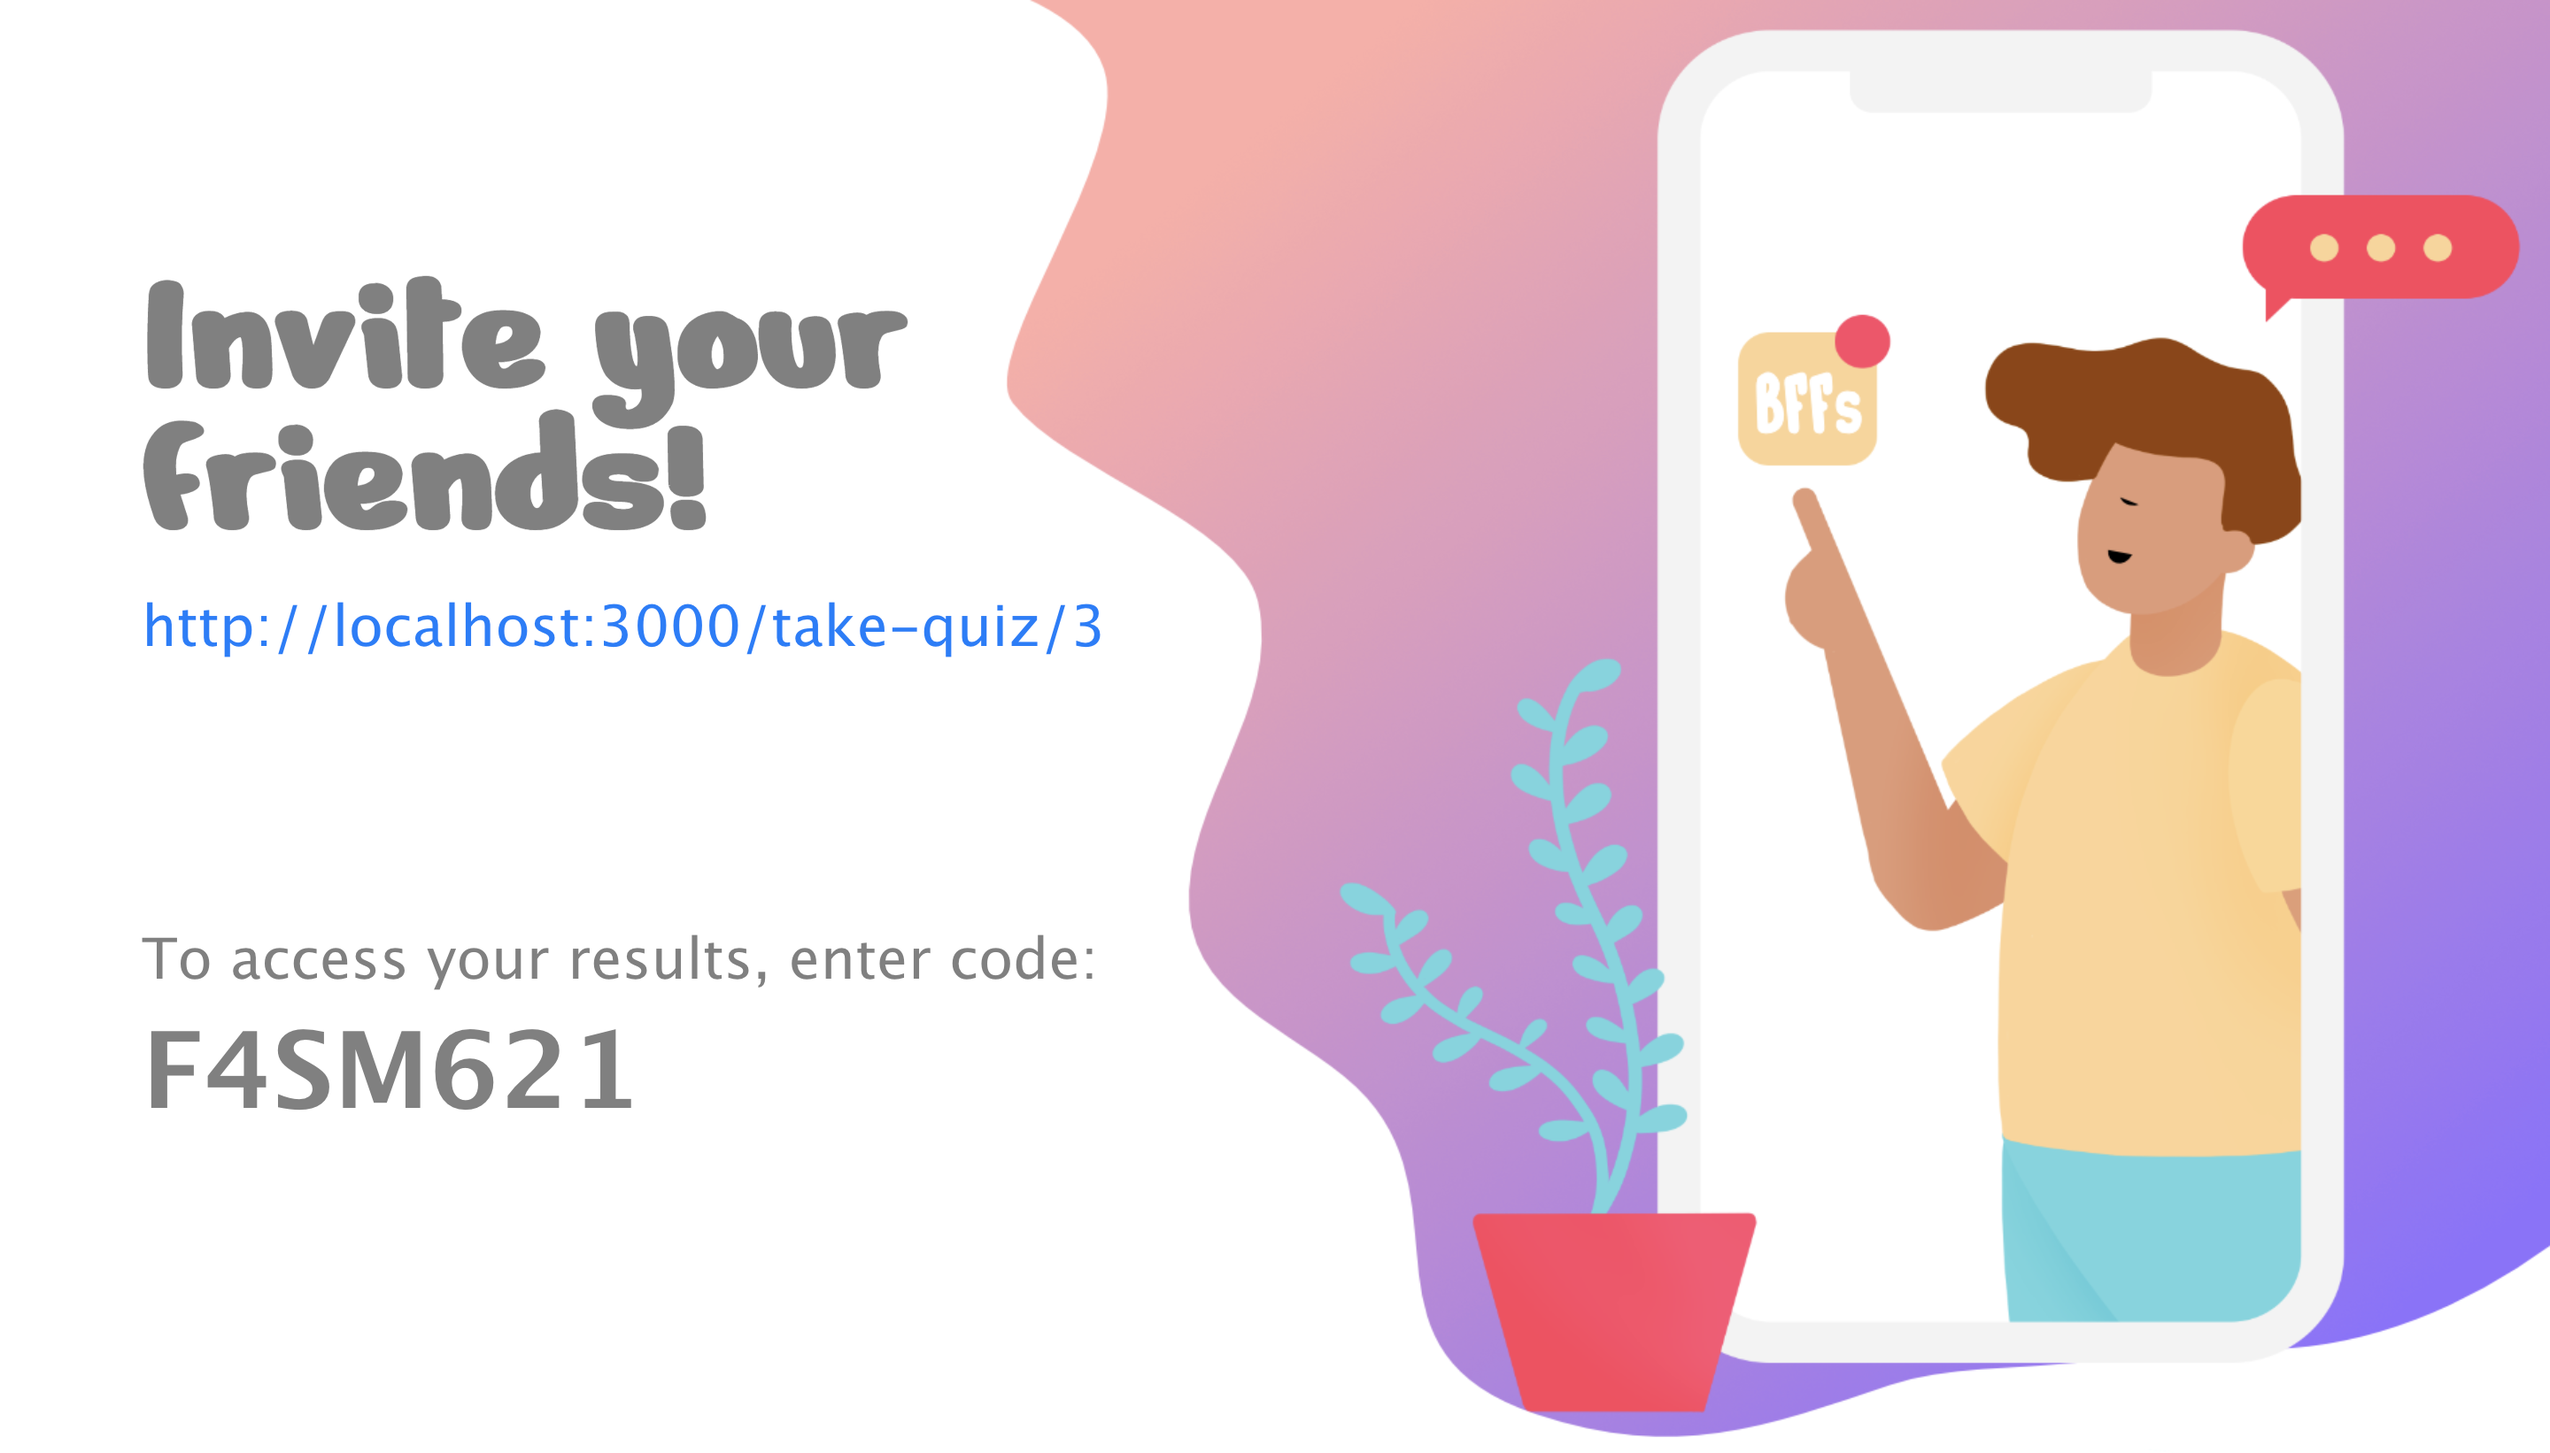
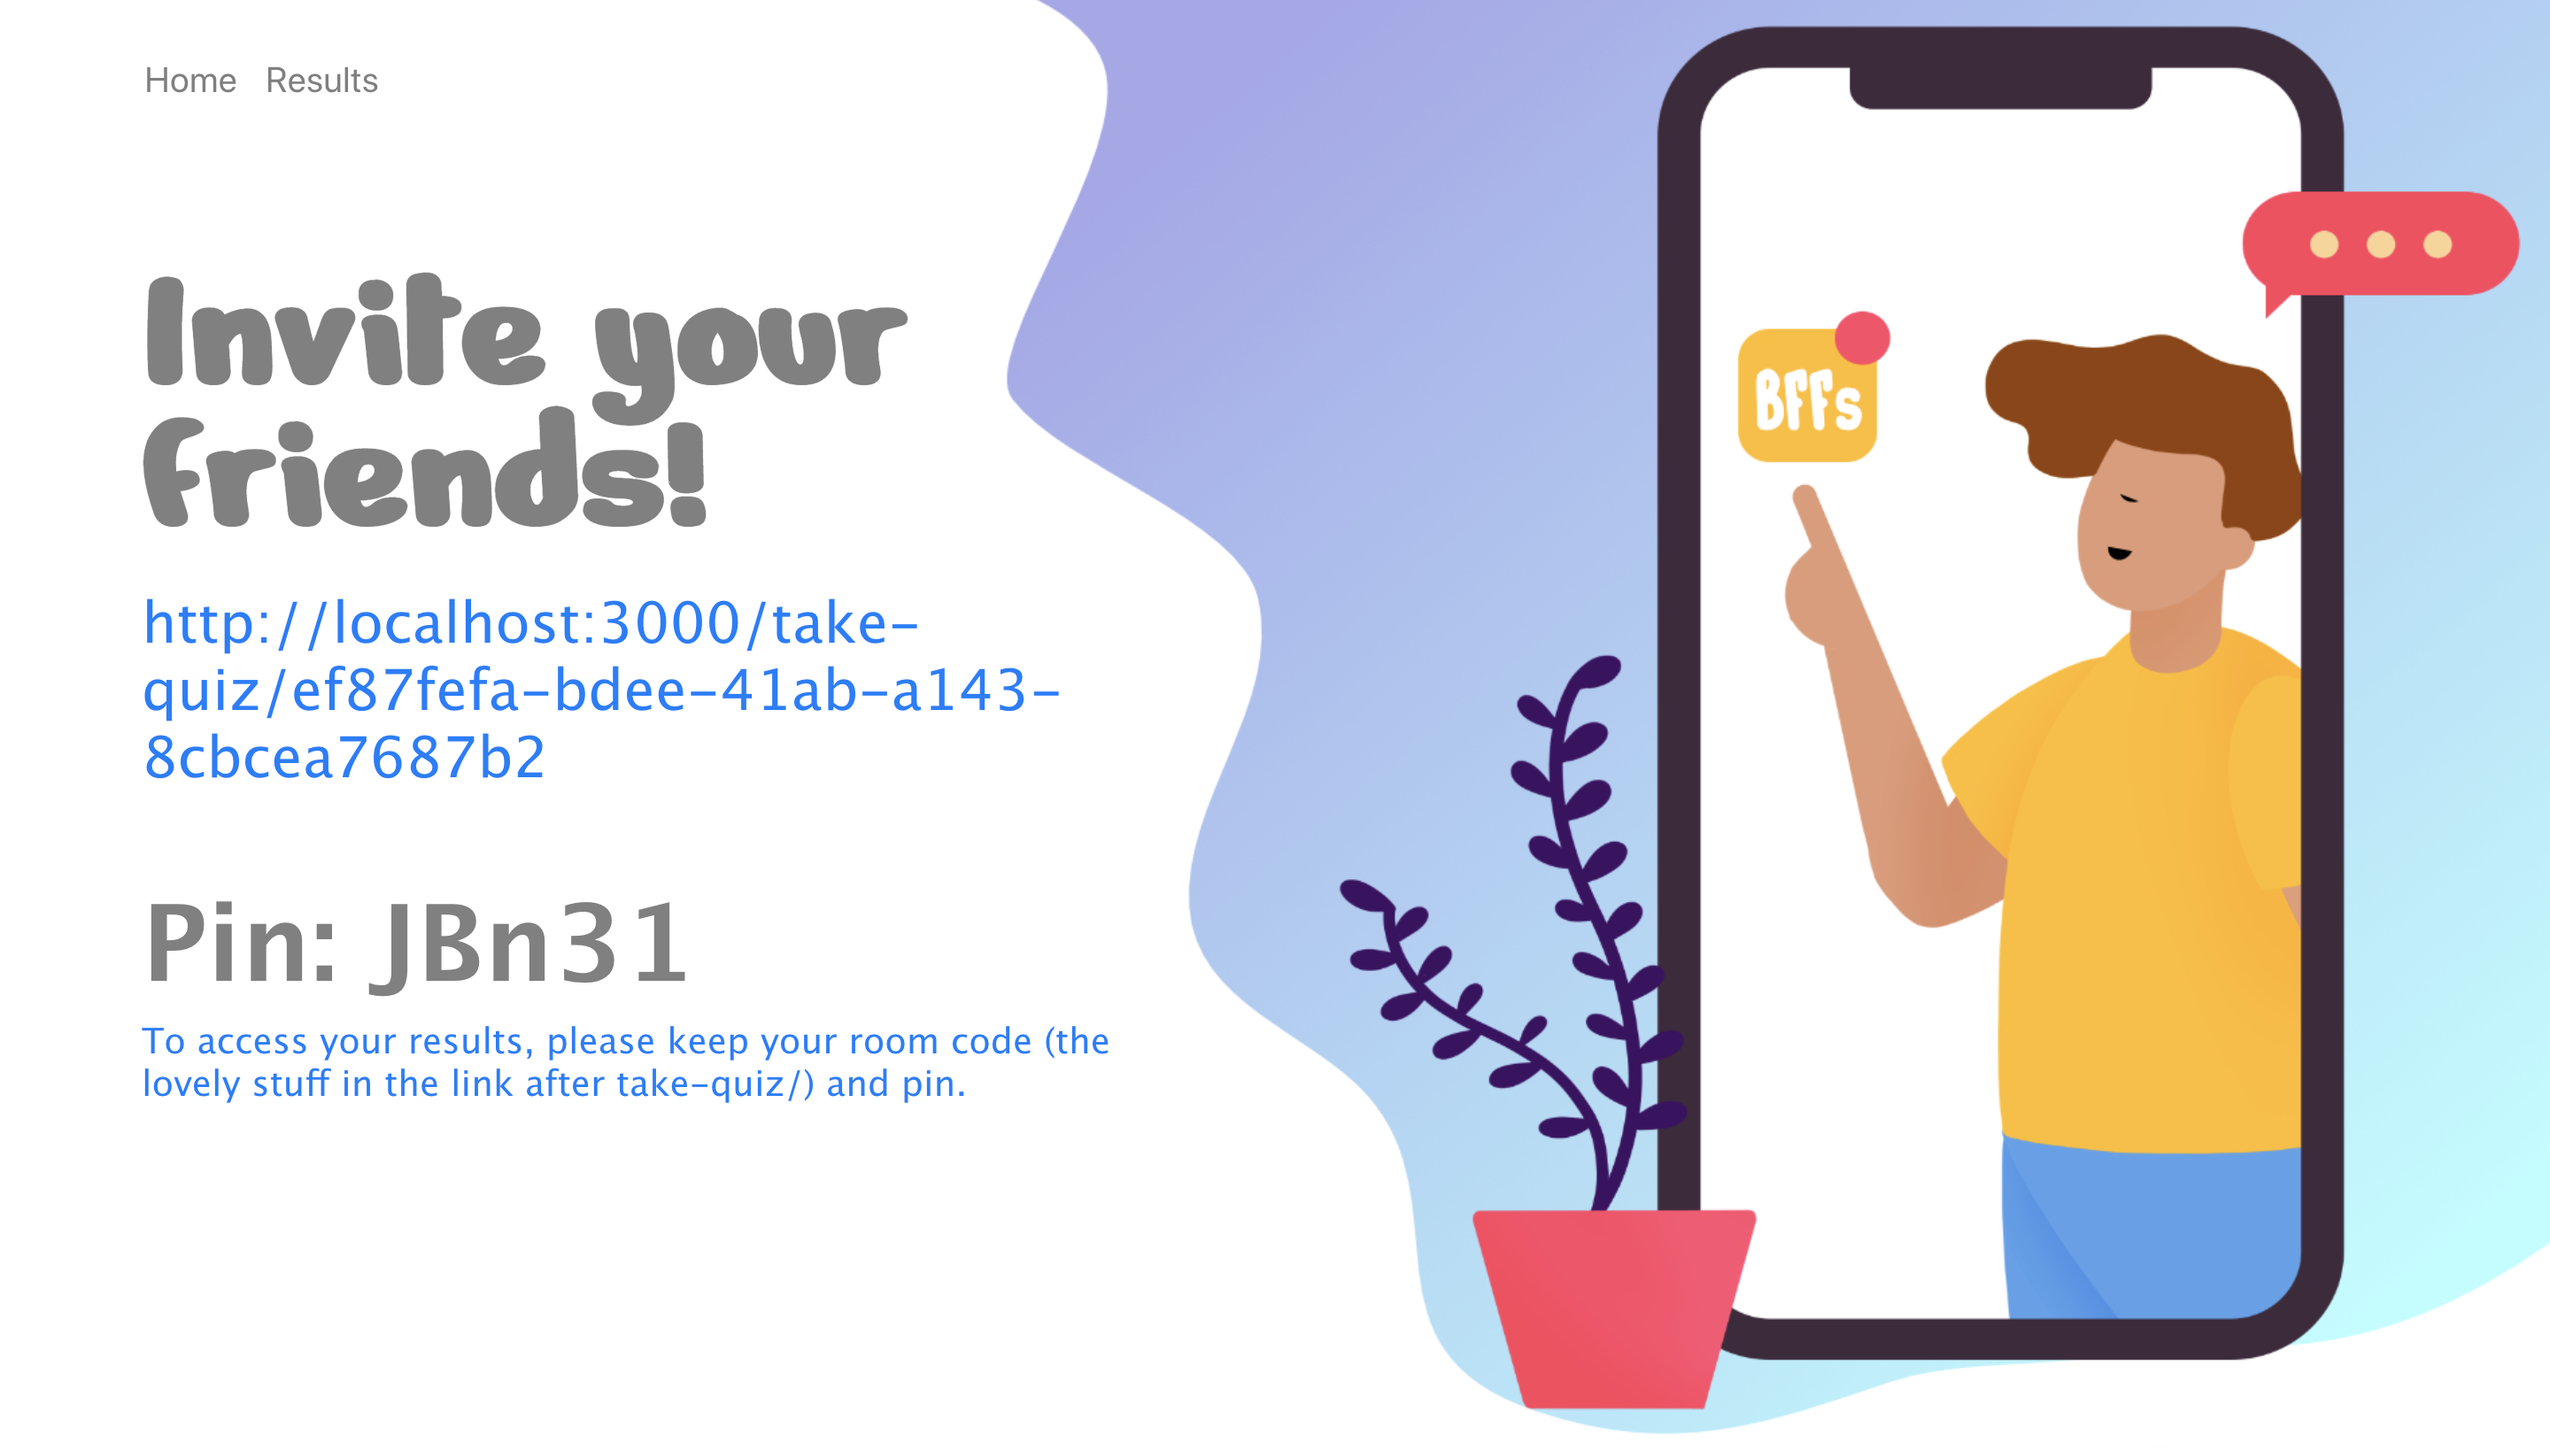
Changed readme images

diff --git a/client/src/components/Navbar/navbar.js b/client/src/components/Navbar/navbar.js
@@ -1,0 +1,18 @@
+import './navbar.css';
+import { Navbar,  Nav } from 'react-bootstrap';
+
+function MyNavbar() {
+  return (
+      <Navbar className='my-navbar'>
+        <Navbar.Toggle aria-controls='basic-navbar-nav' />
+        <Navbar.Collapse id='basic-navbar-nav'>
+          <Nav className='mr-auto'>
+            <Nav.Link className="nav-link" href='/'>Home</Nav.Link>
+            <Nav.Link className="nav-link" href='/view-results'>Results</Nav.Link>
+          </Nav>
+        </Navbar.Collapse>
+      </Navbar>
+  );
+}
+
+export default MyNavbar;

diff --git a/client/src/components/Cards/create_quiz/card.js b/client/src/components/Cards/create_quiz/card.js
@@ -54,6 +54,7 @@ function Card({
           <div className='card-content'>
             {/* Question Components */}
             <div className='question mb-2'>
+              <h2>QUESTION {cardNumber}</h2>
               {/* Question input field */}
               <Question
                 quizInfo={quizInfo}

diff --git a/client/src/components/Navbar/navbar.css b/client/src/components/Navbar/navbar.css
@@ -1,0 +1,10 @@
+.my-navbar{
+    position: absolute; 
+    margin: 0px 4%;
+    top: 2%;
+}
+
+.nav-link {
+    font-size: 20px;
+}
+
